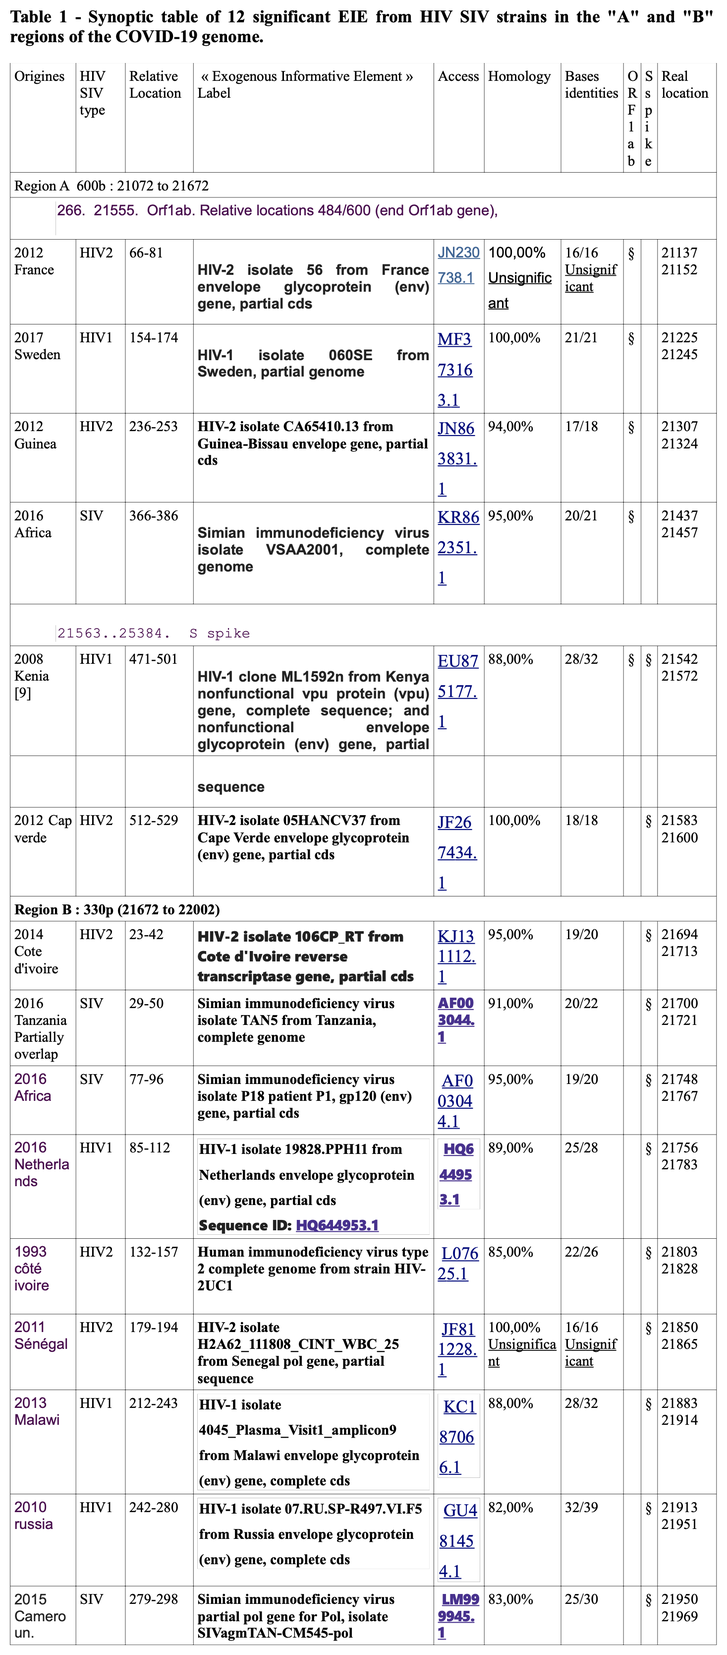
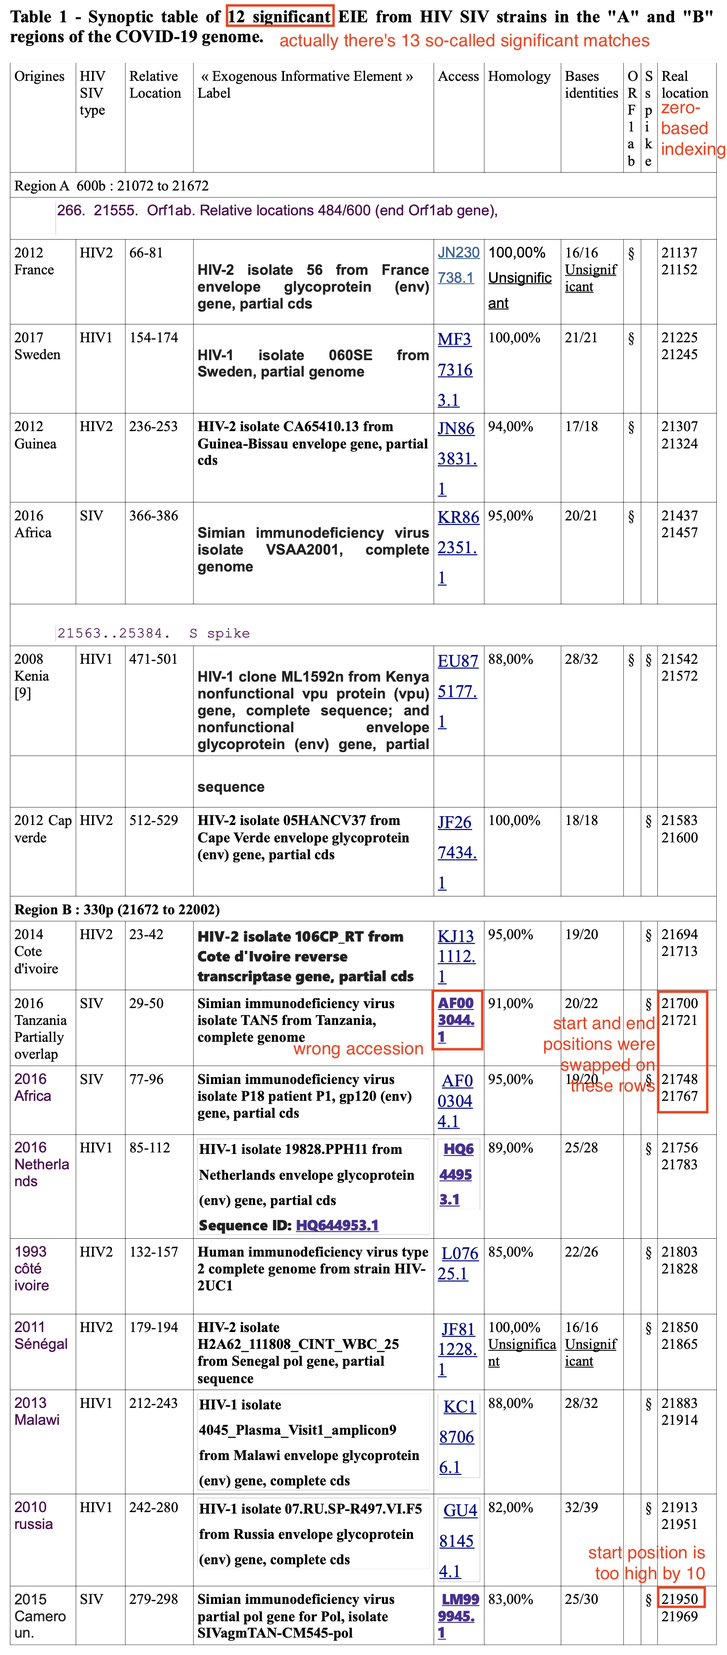
a

diff --git a/dowd.html b/dowd.html
@@ -4,7 +4,7 @@
 body{background:#292929;color:white;margin:6px 6px 6px max(6px, min(50vw - 270px, 100vw - 1100px))}
 body,td,th{font:14.5px/1.3 Arial,Helvetica,'Liberation Sans',sans-serif}
 p{max-width:540px}
-h1,h2,h2 a,h3 a,h2 a:visited,h3 a:visited{font-weight:normal;color:white}
+h1,h2,h3,h2 a,h3 a,h2 a:visited,h3 a:visited{font-weight:normal;color:white}
 h1{font-size:2.1em;margin-top:.9em}
 h2{font-size:1.7em}
 h3{font-size:1.3em}
@@ -18,7 +18,7 @@ table{border-collapse:collapse}
 td,th{border:1px solid #555;padding:2px 4px}
 th{background:#444;text-align:left;font-weight:bold}
 img{max-width:100%}
-blockquote{margin-left:0px;padding-left:40px;margin-right:0}
+blockquote{margin-left:0px;padding-left:40px;margin-right:0;overflow-x:hidden}
 blockquote p{max-width:480px}
 blockquote blockquote p{max-width:440px}
 blockquote blockquote blockquote p{max-width:400px}
@@ -82,7 +82,7 @@ blockquote blockquote blockquote,blockquote blockquote .quote,blockquote .quote 
 <img src="i/debunk-dowd-4.jpg">
 </div>
 <p>In the screenshot above if you calculate the mortality rate for 2022 by dividing the 2022 deaths by the 2021 population size, it's <code>176784/16206075*1e5</code> which is about 1091, so it matches the plot in Dowd's preprint.</p>
-<p>However next I realized why Dowd's team got higher CMR in 2021 than 2020, which is that CDC WONDER uses population estimates based on the 2010 census for 2020 but population estimates based on the 2020 census from 2021 onwards. And if you look at the mid-2020 resident population estimate for ages 75 to 84, it was about 4% lower in the 2020-based vintage 2023 release than in the 2010-based vintage 2020 release:</p>
+<p>Next I figured out why Dowd's team got higher CMR in 2021 than 2020, which is that CDC WONDER uses population estimates based on the 2010 census for 2020 but population estimates based on the 2020 census from 2021 onwards. And if you look at the mid-2020 resident population estimate for ages 75 to 84, it was about 4% lower in the 2020-based vintage 2023 release than in the 2010-based vintage 2020 release:</p>
 <pre># vintage 2020 release based on 2010 census (used for CDC WONDER&#39;s population sizes in 2020)
 old=fread(&quot;https://www2.census.gov/programs-surveys/popest/datasets/2010-2020/national/asrh/nc-est2020-agesex-res.csv&quot;)
 old[AGE%in%75:84&amp;SEX==0,sum(POPESTIMATE2020)]
@@ -181,8 +181,8 @@ ggsave(&quot;1.png&quot;,width=4,height=3,dpi=350*4)
 system(&quot;magick 1.png -resize 25% 1.png&quot;)</pre>
 </div>
 <p>In the plot above my magenta line in 2010-2020 is not perfectly equal to the population estimates used by CDC WONDER, but it's because I used vintage 2020 population estimates for 2010-2020, but CDC WONDER uses vintage 2015 estimates for 2015, vintage 2016 estimates for 2016, and so on.</p>
-<p>In the plot above the 2000-2010 intercensal population estimates are based on both 2000 and 2010 censuses, and they were adjusted to get rid of the jump between the 2000-based and 2010-based population estimates. CDC WONDER uses the 2000-2010 intercensal population estimates for the years 2000 to 2009, but the 2010-2020 intercensal population estimates are only scheduled to be published in 2025 after which they will probably replace the old 2010-based population estimates at CDC WONDER, so for now CDC WONDER suffers from the jump in population estimates between 2020 and 2021.</p>
-<p>However while we are waiting for the new intercensal population estimates to be published, I developed a fairly straightforward way to adjust the 2010-2020 estimates to get rid of the jump. For example in ages 75 to 84, the ratio between the 2020-based vintage 2023 estimate for 2020 and the 2010-based vintage 2020 estimate for 2020 is <code>15822264/16451547</code> which is about 0.9617. So therefore I'm multiplying the population estimate for 2011 by about <code>.9+.1*.9617</code>, the population estimate for 2012 by about <code>.8+.2*.9617</code>, and so on (or actually in the plot below I'm doing the multiplication separately for each single year of age and then adding together the results for each age, but it's nearly equivalent to doing the multiplication for ages 75-84 aggregated together):</p>
+<p>In the plot above the 2000-2010 intercensal population estimates are based on both 2000 and 2010 censuses, so the intercensal estimates were adjusted to get rid of the jump between the 2000-based and 2010-based population estimates. CDC WONDER uses the 2000-2010 intercensal population estimates for the years 2000 to 2009, so eventually CDC WONDER will probably replace the 2010-2020 population estimates with the 2010-2020 intercensal estimates once they get published, but they are only scheduled to be published in 2025 so for now CDC WONDER suffers from the sudden jump in population size between 2020 and 2021.</p>
+<p>However while we are waiting for the new intercensal population estimates to be published, I developed a fairly straightforward way to adjust the 2010-2020 estimates to get rid of the jump. For example in ages 75 to 84, the ratio between the 2020-based vintage 2023 estimate for 2020 and the 2010-based vintage 2020 estimate for 2020 is <code>15822264/16451547</code> which is about 0.9617. So therefore I'm multiplying the population estimate for 2011 by about <code>.9+.1*.9617</code>, the population estimate for 2012 by about <code>.8+.2*.9617</code>, and so on (or actually in the plot below I'm doing the multiplication separately for each single year of age and then adding together the results for each age, but it produces close to identical results to doing the multiplication for ages 75-84 aggregated together):</p>
 <div class="width7">
 <img src="i/dowd-popmult.png">
 </div>
@@ -358,10 +358,10 @@ sd=sd(d$excess[fitting]) # standard deviation of excess deaths during fitting pe
 d$sigma=d$excess/sd # z-score of excess deaths divided by standard deviation
 
 d$sigma[d$year==2022]
-# 6.024771 (sigma for 2022 deaths divided by 2022 population size)
+# 6.024771 (z-score for 2022 deaths divided by 2022 population size)
 
 (d$dead[d$year==2022]/d$pop[d$year==2021]*1e5-d$trend[d$year==2022])/sd
-# 22.16794 (sigma for 2022 deaths divided by 2021 population size)
+# 22.16794 (z-score for 2022 deaths divided by 2021 population size)
 
 print.data.frame(mutate_if(d,is.double,round,1),row.names=F)
 # year   dead      pop    cmr  trend excess sigma
@@ -426,12 +426,35 @@ print(round(d,1),r=F)
 <div class="width6">
 <img src="i/debunk-dowd-6.jpg">
 </div>
-<p>The next plot also shows how 2022 was the first year when the mid-year population estimates included a large number of people born after mid-1946 (I used the population sizes returned by CDC WONDER, where the population size of ages 75-84 fell between 2020 and 2021 due to the switch to the 2020-based population estimates, even though it's not too easy to see from this plot):</p>
+<p>The next plot shows how 2022 was the first year when the mid-year population of the age group 75-84 included a large number of people born after mid-1946:</p>
 <div class="width6">
 <img src="i/debunk-dowd-7.png">
 </div>
-<p>An annoying feature at CDC WONDER is that it doesn't return population sizes for monthly or weekly data but only yearly data. However the US Census Bureau has actually released monthly population estimates by single year of age, even though they seem to be interpolated from quarterly population estimates. [<a href="https://www2.census.gov/programs-surveys/popest/datasets/2020-2023/national/asrh/">https://www2.census.gov/programs-surveys/popest/datasets/2020-2023/national/asrh/</a>, <a href="https://www2.census.gov/programs-surveys/popest/datasets/2010-2020/national/asrh/">https://www2.census.gov/programs-surveys/popest/datasets/2010-2020/national/asrh/</a>] In the next plot in order to get rid of a jump in population estimates after the switch from the 2010-based to 2020-based population estimates, I used the same method as earlier to multiply the 2010-based population estimates with a linear slope so that they matched the 2020-based estimates in 2020. [<a href=ethical.html#Files_for_US_population_estimates_by_single_year_of_age_up_to_ages_100>ethical.html#Files_for_US_population_estimates_by_single_year_of_age_up_to_ages_100</a>]</p>
-<p>In the plot below I calculated the blue line so that I first did a linear regression for the CMR of each age, and then I multiplied the population size of the age by the projected trend in CMR to get the expected deaths for the age, and then I added together the expected deaths for all ages. The plot shows that there was a sharp turning point in the expected number of deaths around mid-2021, which was when the people born in mid-1946 started to turn 75:</p>
+<div class="spoiler">
+<button>
+Show code
+</button><pre>library(data.table)
+
+old=fread(&quot;https://www2.census.gov/programs-surveys/popest/datasets/2010-2020/national/asrh/nc-est2020-agesex-res.csv&quot;)
+new=fread(&quot;https://www2.census.gov/programs-surveys/popest/datasets/2020-2023/national/asrh/nc-est2023-agesex-res.csv&quot;)
+
+old=old[SEX==0&amp;AGE!=999,.(age=AGE,pop=unlist(.SD[,-(1:4)]),year=rep(2010:2020,each=.N))]
+new=new[SEX==0&amp;AGE!=999,.(age=AGE,pop=unlist(.SD[,-(1:3)]),year=rep(2020:2023,each=.N))]
+
+m=rbind(old[year&lt;2020],new)[age%in%65:84,xtabs(pop~year+age)]
+disp=m;disp[]=sprintf(&quot;%.1f&quot;,m/1e6)
+maxcolor=max(m)
+
+pheatmap::pheatmap(m,filename=&quot;1.png&quot;,display_numbers=disp,
+  cluster_rows=F,cluster_cols=F,legend=F,cellwidth=17,cellheight=17,fontsize=9,fontsize_number=8,
+  border_color=NA,
+  number_color=ifelse(m&gt;maxcolor*.45,&quot;white&quot;,&quot;black&quot;),
+  breaks=seq(0,maxcolor,,256),
+  colorRampPalette(sapply(seq(1,0,,256),\(i)rgb(i,i,i)))(256))
+
+system(&quot;pad=22;w=`identify -format %w 1.png`;magick \\( -size $[w-pad*2]x -font Arial-Bold -pointsize 42 caption:&#39;Mid-year US resident population estimate in millions by age and year&#39; -splice $[pad]x16 \\) \\( -size $[w-pad*2] -font Arial -pointsize 38 caption:&#39;Vintage 2020 estimates based on the 2010 census were used for 2010 to 2019, and vintage 2023 estimates based on the 2020 census were used for 2021 to 2023. Source: www2.census.gov/programs-surveys/popest/datasets/{2010-2020/national/asrh/nc- est2020,2020-2023/national/asrh/nc-est2023}-agesex-res.csv.&#39; -splice $[pad]x10 \\) 1.png -append 1.png&quot;)</pre>
+</div>
+<p>An annoying feature at CDC WONDER is that it doesn't return population sizes for monthly or weekly data but only yearly data. However the US Census Bureau has actually released monthly population estimates by single year of age, even though they seem to be interpolated from quarterly population estimates. [<a href="https://www2.census.gov/programs-surveys/popest/datasets/2020-2023/national/asrh/">https://www2.census.gov/programs-surveys/popest/datasets/2020-2023/national/asrh/</a>, <a href="https://www2.census.gov/programs-surveys/popest/datasets/2010-2020/national/asrh/">https://www2.census.gov/programs-surveys/popest/datasets/2010-2020/national/asrh/</a>] In the next plot in order to get rid of a jump in population estimates after the switch from the 2010-based to 2020-based population estimates, I used the same method as earlier to multiply the 2010-based population estimates with a linear slope so that they matched the 2020-based estimates in 2020. [<a href=ethical.html#Files_for_US_population_estimates_by_single_year_of_age_up_to_ages_100>ethical.html#Files_for_US_population_estimates_by_single_year_of_age_up_to_ages_100</a>] In the plot below I calculated the blue line so that I first did a linear regression for the CMR of each age, and then I multiplied the population size of the age by the projected trend in CMR to get the expected deaths for the age, and then I added together the expected deaths for all ages. The plot shows that there was a sharp turning point in the expected number of deaths around mid-2021, which was when the people born in mid-1946 started to turn 75:</p>
 <div class="width6">
 <img src="i/debunk-dowd-9.png">
 </div>

diff --git a/pradhan.html b/pradhan.html
@@ -4,7 +4,7 @@
 body{background:#292929;color:white;margin:6px 6px 6px max(6px, min(50vw - 270px, 100vw - 1100px))}
 body,td,th{font:14.5px/1.3 Arial,Helvetica,'Liberation Sans',sans-serif}
 p{max-width:540px}
-h1,h2,h2 a,h3 a,h2 a:visited,h3 a:visited{font-weight:normal;color:white}
+h1,h2,h3,h2 a,h3 a,h2 a:visited,h3 a:visited{font-weight:normal;color:white}
 h1{font-size:2.1em;margin-top:.9em}
 h2{font-size:1.7em}
 h3{font-size:1.3em}
@@ -18,7 +18,7 @@ table{border-collapse:collapse}
 td,th{border:1px solid #555;padding:2px 4px}
 th{background:#444;text-align:left;font-weight:bold}
 img{max-width:100%}
-blockquote{margin-left:0px;padding-left:40px;margin-right:0}
+blockquote{margin-left:0px;padding-left:40px;margin-right:0;overflow-x:hidden}
 blockquote p{max-width:480px}
 blockquote blockquote p{max-width:440px}
 blockquote blockquote blockquote p{max-width:400px}
@@ -543,21 +543,21 @@ Sbjct  73  TNGTKR  78
 <h2>
 <a href=#May_2020_preprint_by_Perez_and_Montagnier id=May_2020_preprint_by_Perez_and_Montagnier>May 2020 preprint by Perez and Montagnier</a>
 </h2>
-<p>In May 2020 Jean-Claude Perez and Luc Montagnier published a preprint at Researchgate titled <span class="quote">&quot;COVID-19, SARS and Bats Coronaviruses Genomes Unexpected Exogenous RNA Sequences&quot;</span>. [<a href="https://www.researchgate.net/publication/341756383_COVID-19_SARS_and_Bats_Coronaviruses_Genomes_Unexpected_Exogenous_RNA_Sequences">https://www.researchgate.net/publication/341756383_COVID-19_SARS_and_Bats_Coronaviruses_Genomes_Unexpected_Exogenous_RNA_Sequences</a>]</p>
-<p>They didn't use Wuhan-Hu-1 as their reference genome but another early sequence from Wuhan. [<a href="https://www.ncbi.nlm.nih.gov/nucleotide/LR757998">https://www.ncbi.nlm.nih.gov/nucleotide/LR757998</a>.1] It's missing the first 25 bases of the 5' UTR relative to Wuhan-Hu-1, so the genome coordinates given by Perez are off by 25 relative to Wuhan-Hu-1 coordinates.</p>
-<p>The authors identified two contiguous regions with a high number of matches to HIV or SIV sequences, which they called <span class="quote">&quot;region A&quot;</span> and <span class="quote">&quot;region B&quot;</span>. They indicated that region A was 600 bases long but it matched bases 21072 to 21672 of the reference, which would mean that it would be 601 bases long if both ends of the range would be inclusive, but the end of the range appears to be exclusive and the authors appear to have started genome numbering from zero and not one, so the region actually matches bases 21073 to 21672 in regular one-based numbering where both ends of the range are inclusive:</p>
+<p>In May 2020 Jean-Claude Perez and Luc Montagnier published a preprint at ResearchGate titled <span class="quote">&quot;COVID-19, SARS and Bats Coronaviruses Genomes Unexpected Exogenous RNA Sequences&quot;</span>. [<a href="https://www.researchgate.net/publication/341756383_COVID-19_SARS_and_Bats_Coronaviruses_Genomes_Unexpected_Exogenous_RNA_Sequences">https://www.researchgate.net/publication/341756383_COVID-19_SARS_and_Bats_Coronaviruses_Genomes_Unexpected_Exogenous_RNA_Sequences</a>]</p>
+<p>The authors didn't use Wuhan-Hu-1 as their reference genome but another early sequence from Wuhan. [<a href="https://www.ncbi.nlm.nih.gov/nucleotide/LR757998">https://www.ncbi.nlm.nih.gov/nucleotide/LR757998</a>.1] It's missing the first 25 bases of the 5' UTR relative to Wuhan-Hu-1, so the genome coordinates given by the authors are off by 25 relative to Wuhan-Hu-1 coordinates.</p>
+<p>The authors identified two contiguous regions with a high number of matches to HIV or SIV sequences, which they called <span class="quote">&quot;region A&quot;</span> and <span class="quote">&quot;region B&quot;</span>. The authors indicated that region A was 600 bases long but it matched bases 21072 to 21672 of the reference, which would mean that it would be 601 bases long if both ends of the range would be inclusive. But the end of the range appears to be exclusive and the authors appear to have started genome numbering from zero and not one, so the region actually matches bases 21073 to 21672 in regular one-based numbering where both ends of the range are inclusive:</p>
 <pre>$ emu()(curl -sd &quot;id=$(paste -sd,)&quot; &quot;https://eutils.ncbi.nlm.nih.gov/entrez/eutils/efetch.fcgi?db=${1:-nuccore}&amp;rettype=${2:-fasta}&amp;retmode=$3&quot;)
 $ emu&lt;&lt;&lt;LR757998&gt;perezref.fa
 $ seqkit locate -pAGGGTTTTTTCACTTACATTTGTGGGTTTATACAACAAAAGCTAGCTCTTGGAGGTTCCGTGGCTATAAAGATAACAGAACATTCTTGGAATGCTGATCTTTATAAGCTCATGGGACACTTCGCATGGTGGACAGCCTTTGTTACTAATGTGAATGCGTCATCATCTGAAGCATTTTTAATTGGATGTAATTATCTTGGCAAACCACGCGAACAAATAGATGGTTATGTCATGCATGCAAATTACATATTTTGGAGGAATACAAATCCAATTCAGTTGTCTTCCTATTCTTTATTTGACATGAGTAAATTTCCCCTTAAATTAAGGGGTACTGCTGTTATGTCTTTAAAAGAAGGTCAAATCAATGATATGATTTTATCTCTTCTTAGTAAAGGTAGACTTATAATTAGAGAAAACAACAGAGTTGTTATTTCTAGTGATGTTCTTGTTAACAACTAAACGAACAATGTTTGTTTTTCTTGTTTTATTGCCACTAGTCTCTAGTCAGTGTGTTAATCTTACAACCAGAACTCAATTACCCCCTGCATACACTAATTCTTTCACACGTGGTGTTTATTACCCTGACAAAGTTTTCAGATCC perezref.fa|cut -f5,6|column -t
 start  end
 21073  21672</pre>
-<p>Region A consists of the last 458 bases of ORF1ab, the 7-base intergenic region between ORF1ab and the spike protein, and the first 135 bases of the spike. Region B consists of bases 136 to 465 of the spike.</p>
-<p>The paper included this table of matches to regions A and B in various sequences of HIV-1, HIV-2, and SIV, where matches shorter than 18 bases were indicated as not significant:</p>
+<p>Region A consists of the last 458 bases of ORF1ab, the 7-base intergenic region between ORF1ab and the spike protein, and the first 135 bases of the spike protein. Region B consists of bases 136 to 465 of the spike protein.</p>
+<p>Table 1 of the paper showed matches to regions A and B in various sequences of HIV-1, HIV-2, and SIV, where matches shorter than 18 bases were indicated as not significant:</p>
 <div class="width6">
 <img src="i/pradhan-perez.png">
 </div>
-<p>The paper erroneously says that the table above contains 14 matches out of which 12 are significant, even though actually there's 15 matches out of which 13 are so-called significant matches. The starting and ending positions in the last column seem to use zero-based indexing, because they are smaller by one than they would be in regular one-based indexing. One error in the table above is that <span class="quote">&quot;Simian immunodeficiency virus isolate TAN5 from Tanzania&quot;</span> should have the accession number JN091691.1, but it was accidentally given the same accession number as the sequence on the next row. Another error is that the ranges in the last column were accidentally swapped for AF003044 and JN091691. And another error is that on the last row the length of the match is indicated to be 30 bases even though the given starting and ending positions would result in a length of only 20 bases, but it's because the starting position is too high by 10.</p>
-<p>When I downloaded all 15 sequences in the table and I did a BLAST search of them against SARS-CoV-2, there were no matches returned when I ran BLAST with the default settings:</p>
+<p>The authors erroneously wrote that the table above contains 14 matches out of which 12 are significant, even though actually the table contains 15 matches out of which 13 are indicated to be so-called significant matches. The starting and ending positions in the last column seem to use zero-based indexing, because they are smaller by one than they would be in regular one-based indexing. One error in the table is that the SIV isolate TAN5 from Tanzania should have the accession number JN091691.1, but it was accidentally given the same accession number as the sequence on the next row. And another error is that the ranges in the last column were accidentally swapped for AF003044 and JN091691. And another error is that on the last row the length of the match is indicated to be 30 bases even though the given starting and ending positions would result in a length of only 20 bases, but it's because the starting position is too high by 10.</p>
+<p>When I downloaded all 15 sequences in the table and I did a BLAST search for the sequences against SARS-CoV-2, there were no matches returned when I ran BLAST with the default settings:</p>
 <pre>$ cat perez # fixed errors mentioned above and converted to 1-based indexing
 JN230738.1 21138 21153
 MF373163.1 21226 21246
@@ -566,14 +566,14 @@ KR862351.1 21438 21458
 EU875177.1 21543 21573
 JF267434.1 21584 21601
 KJ131112.1 21695 21714
-AF003044.1 21749 21768
-JN091691.1 21701 21722
+AF003044.1 21749 21768 # the start and end positions on this row were accidentally swapped with the next row
+JN091691.1 21701 21722 # the start and end positions on this row were accidentally swapped with the previous row
 HQ644953.1 21757 21784
 L07625.1 21804 21829
 JF811228.1 21851 21866
 KC187066.1 21884 21915
 GU481454.1 21914 21952
-LM999945.1 21941 21970
+LM999945.1 21941 21970 # the starting position of this row was too high by 10
 $ curl &quot;https://eutils.ncbi.nlm.nih.gov/entrez/eutils/efetch.fcgi?db=nuccore&amp;rettype=fasta&amp;id=$(cut -d\  -f1 perez|paste -sd, -)&quot;&gt;perez.fa
 $ brew install blast
 [...]

diff --git a/statistic2.html b/statistic2.html
@@ -4,7 +4,7 @@
 body{background:#292929;color:white;margin:6px 6px 6px max(6px, min(50vw - 270px, 100vw - 1100px))}
 body,td,th{font:14.5px/1.3 Arial,Helvetica,'Liberation Sans',sans-serif}
 p{max-width:540px}
-h1,h2,h2 a,h3 a,h2 a:visited,h3 a:visited{font-weight:normal;color:white}
+h1,h2,h3,h2 a,h3 a,h2 a:visited,h3 a:visited{font-weight:normal;color:white}
 h1{font-size:2.1em;margin-top:.9em}
 h2{font-size:1.7em}
 h3{font-size:1.3em}
@@ -18,7 +18,7 @@ table{border-collapse:collapse}
 td,th{border:1px solid #555;padding:2px 4px}
 th{background:#444;text-align:left;font-weight:bold}
 img{max-width:100%}
-blockquote{margin-left:0px;padding-left:40px;margin-right:0}
+blockquote{margin-left:0px;padding-left:40px;margin-right:0;overflow-x:hidden}
 blockquote p{max-width:480px}
 blockquote blockquote p{max-width:440px}
 blockquote blockquote blockquote p{max-width:400px}
@@ -793,7 +793,89 @@ system(&quot;magick 1.png -resize 25% 1.png&quot;)</pre>
 <img src="i/statistic-king-13.jpg">
 </div>
 <p>The paper said: <span class="quote">&quot;Excess cardiopulmonary arrest deaths were estimated to have increased by 1,236% from 2020 to 2023, rising from 11 excess deaths (95% CI: -12, 34) in 2020 to 147 excess deaths (95% CI: 123, 170) in 2023.&quot;</span> I think it was misleading that McCullough's headline was not even based on actual data but on a projected number of deaths for 2023.</p>
-<p>But anyway there were about 11.8% excess deaths in 2023 (<code>1392/1245-1</code>) and about 1.0% excess deaths in 2020 (<code>1121/1110-1</code>). So I guess an increase of 1236% sounds more exciting than an increase of 10.8 percentage points.</p>
+<p>But anyway there were about 11.8% excess deaths in 2023 (<code>1392/1245-1</code>) and about 1.0% excess deaths in 2020 (<code>1121/1110-1</code>). So I guess an increase of 1236% sounds more exciting than an increase of 10.8 percentage points:</p>
+<div class="width6">
+<img src="i/statistic-king-18.png">
+</div>
+<div class="spoiler">
+<button>
+Show code
+</button><pre>library(data.table);library(ggplot2)
+
+d=data.table(year=2005:2023)
+d$dead=c(934,819,844,847,866,851,824,882,900,979,893,940,964,1009,1055,1116,1257,1300,1358)
+d$dead2=c(rep(NA,10),891,933,960,1012,1059,1121,1229,1310,1392)
+d$base=c(rep(NA,10),884,929,974,1019,1064,1110,1155,1200,1245)
+
+p=d[,.(x=year,y=c(dead,dead2,base),z=rep(c(&quot;Original PDFs&quot;,&quot;McCullough paper&quot;,&quot;McCullough baseline&quot;),each=.N))]
+p[,z:=factor(z,unique(z))]
+
+anno=p[x%in%c(2020,2023)&amp;z!=z[1]]
+minus=4
+seg=as.matrix(anno[,.(x=x-minus,xend=x,y,yend=y)])
+seg=rbind(seg,t(matrix(t(anno[order(x)][,x:=x-minus][,-3]),4))[,c(1,3,2,4)])
+
+lab=cbind(anno[1:2,1:2],base=anno[3:4][[2]])
+lab=lab[,.(x,y=(y+base)/2,label=paste0(&quot;(&quot;,y,&quot; - &quot;,base,&quot;) / &quot;,base,&quot; ≈ &quot;,sprintf(&quot;%.1f&quot;,(y/base-1)*100),&quot;% excess deaths&quot;))]
+
+note=&quot;(1392/1245-1)-(1121/1110-1): increase of about 10.8 percentage points
+(1392-1245)/(1121-1110)-1: increase of about 1236% (misleading headline)&quot;
+
+xstart=2005;xend=2023;ybreak=pretty(c(0,p$y),7);ystart=0;yend=max(ybreak)
+xbreak=seq(xstart-.5,xend+.5,.5);xlab=ifelse(xbreak%%1==0,xbreak,&quot;&quot;)
+
+color=c(&quot;black&quot;,&quot;#ff5555&quot;,&quot;#ff5555&quot;)
+
+cap=&quot;Sources: kingcounty.gov/en/dept/dph/health-safety/health-centers-programs-services/emergency-
+medical-services/reports-publications, Hulscher et al. 2024, \&quot;Excess Cardiopulmonary Arrest and
+Mortality after COVID-19 Vaccination in King County, Washington\&quot;.&quot;
+
+sub=str_wrap(&quot;The number of deaths in the paper by McCullough foundation is slightly different from the original PDFs because in the paper the number of dead patients was calculated by multiplying the number of treated patients by the rounded percentage of patients who didn&#39;t survive, and not by subtracting the number of patients who didn&#39;t survive from the number of treated patients. In the paper the number of deaths in 2023 was a linear projection of the number of deaths in 2021 and 2022, but the actual number of deaths in 2023 which was published in September 2024 was slightly lower than the projection. The McCullough paper also erroneously used 18% instead of 16% as the percentage of survived patients in 2021.&quot;,80)
+
+ggplot(p,aes(x,y))+
+geom_hline(yintercept=c(0,yend),linewidth=.3,lineend=&quot;square&quot;)+
+geom_vline(xintercept=c(xstart-.5,xend+.5),linewidth=.3,lineend=&quot;square&quot;)+
+geom_line(aes(linewidth=z,color=z,linetype=z))+
+geom_segment(data=as.data.frame(seg),aes(x=x,xend=xend,y=y,yend=yend),lineend=&quot;square&quot;,linewidth=.3,color=color[2])+
+geom_text(data=lab,aes(x=x-minus-.2,label=label),hjust=1,color=color[2],size=2.4)+
+annotate(geom=&quot;label&quot;,x=2023,y=500,label=note,hjust=1,color=color[2],label.r=unit(0,&quot;pt&quot;),label.padding=unit(4,&quot;pt&quot;),label.size=.3,size=2.4)+
+annotate(geom=&quot;label&quot;,x=2023,y=500,label=note,hjust=1,fill=&quot;transparent&quot;,label.r=unit(0,&quot;pt&quot;),label.padding=unit(4,&quot;pt&quot;),label.size=0,size=2.4)+
+geom_point(aes(color=z,shape=z,alpha=z,size=z),stroke=.4)+
+labs(x=NULL,y=NULL,title=&quot;Yearly cardiac arrest deaths in King County EMS data&quot;,subtitle=sub,caption=cap)+
+scale_x_continuous(limits=c(xstart-.5,xend+.5),breaks=xbreak,labels=xlab)+
+scale_y_continuous(limits=c(ystart,yend),breaks=ybreak)+
+coord_cartesian(clip=&quot;off&quot;,expand=F)+
+scale_color_manual(values=color)+
+scale_linetype_manual(values=c(&quot;solid&quot;,&quot;solid&quot;,&quot;42&quot;))+
+scale_linewidth_manual(values=c(.4,.4,.4))+
+scale_shape_manual(values=c(16,16,16))+
+scale_size_manual(values=c(.9,.9,1.4))+
+scale_alpha_manual(values=c(1,1,0))+
+theme(axis.text=element_text(size=7,color=&quot;black&quot;),
+  axis.text.x=element_text(angle=90,vjust=.5,hjust=1),
+  axis.ticks.length=unit(0,&quot;pt&quot;),
+  legend.background=element_blank(),
+  legend.box.spacing=unit(0,&quot;pt&quot;),
+  legend.direction=&quot;horizontal&quot;,
+  legend.justification=c(1,.5),
+  legend.key=element_blank(),
+  legend.key.height=unit(10,&quot;pt&quot;),
+  legend.key.width=unit(18,&quot;pt&quot;),
+  legend.margin=margin(1,,4),
+  legend.position=&quot;top&quot;,
+  legend.spacing.x=unit(1.5,&quot;pt&quot;),
+  legend.spacing.y=unit(0,&quot;pt&quot;),
+  legend.text=element_text(size=7),
+  legend.title=element_blank(),
+  panel.background=element_blank(),
+  plot.margin=margin(4,4,4,4),
+  plot.subtitle=element_text(size=6.5,margin=margin(,,3)),
+  plot.caption=element_text(size=5.7,margin=margin(4),hjust=0),
+  plot.title=element_text(size=7.5,face=&quot;bold&quot;,margin=margin(1,,4)))
+ggsave(&quot;1.png&quot;,width=3.8,height=3.8,dpi=400*4)
+system(&quot;magick 1.png -resize 25% 1.png&quot;)
+</pre>
+</div>
 <p>Peter Sweden also employed the trick in a Substack post where he said that there had been a 1101% increase in excess deaths in children. [<a href="https://skeptics.stackexchange.com/questions/53765/has-there-been-a-1101-increase-in-excess-deaths-among-children-aged-0-14-across">https://skeptics.stackexchange.com/questions/53765/has-there-been-a-1101-increase-in-excess-deaths-among-children-aged-0-14-across</a>] And USMortality used the same trick in one of his Substack posts, where he got about 11.2% excess deaths in 2022 and about 4.5% excess deaths in 2020, so he said there had been a 149% increase in excess deaths (because I guess an increase of 6.7 percentage points wouldn't have sounded as dramatic): [<a href="https://x.com/USMortality/status/1721410802857730423">https://x.com/USMortality/status/1721410802857730423</a>]</p>
 <div class="width5">
 <img src="i/statistic-king-14.jpg">

diff --git a/r.html b/r.html
@@ -1459,6 +1459,16 @@ pre{width:fit-content;margin:6px auto;color:white;white-space:pre-wrap;word-wrap
 <span class=output>[1] 0.2290011 0.3104726</span>
 <span class=output>
 <span class=title># generate tick breaks that cover the specified values</span></span>
-<span class=prompt>&gt;</span> <span class=code>pretty(range(c(12353,28652,38568)))</span>
-<span class=output>[1] 10000 15000 20000 25000 30000 35000 40000</span>
+<span class=prompt>&gt;</span> <span class=code>v=c(15319,28652,38568)</span>
+<span class=prompt>&gt;</span> <span class=code>pretty(v)</span><span class=comment> # this always uses steps of 1, 2, or 5 multiplied by an integer exponent of 10 (and not 2.5 or 4 like ggplot)</span>
+<span class=output>[1] 15000 20000 25000 30000 35000 40000</span>
+<span class=prompt>&gt;</span> <span class=code>scales::breaks_extended(n=5,Q=c(1,2,5))(v)</span>
+<span class=output>[1] 15000 20000 25000 30000 35000 40000</span>
+<span class=output>
+<span class=title># filter vector in pipeline</span></span>
+<span class=prompt>&gt;</span> <span class=code>v=1:5</span>
+<span class=prompt>&gt;</span> <span class=code>v%&gt;%.[.&lt;3]</span><span class=comment> # dplyr</span>
+<span class=output>[1] 1 2</span>
+<span class=prompt>&gt;</span> <span class=code>v|&gt;Filter(f=\(x)x&lt;3)</span>
+<span class=output>[1] 1 2</span>
 </pre>

diff --git a/index.html b/index.html
@@ -60,7 +60,7 @@ blockquote blockquote blockquote,blockquote blockquote .quote,blockquote .quote 
 <title>Index</title>
 <h1>Index - sars2.net</h1>
 <h3>
-COVID statistics
+Statistics
 </h3>
 <div>
 2024-11-17 - <a href=dowd.html>Preprints about cancer mortality by Ed Dowd's group Phinance Technologies</a><br> 2024-11-15 - <a href=statistic2.html>Comments about COVID statistics (part 2)</a><br> 2024-09-29 - <a href=connecticut.html>Record-level Medicare data from Connecticut published by Steve Kirsch</a><br> 2024-08-25 - <a href=uk.html>UK mortality and COVID statistics</a><br> 2024-08-08 - <a href=czech4.html>Czech record-level mortality data by vaccination status (part 4)</a><br> 2024-07-22 - <a href=czech3.html>Czech record-level mortality data by vaccination status (part 3)</a><br> 2024-07-22 - <a href=czech2.html>Czech record-level mortality data by vaccination status (part 2)</a><br> 2024-07-17 - <a href=czech.html>Czech record-level mortality data by vaccination status (part 1)</a><br> 2024-04-03 - <a href=ethical.html>Comments to Ethical Skeptic</a><br> 2024-01-29 - <a href=statistic.html>Comments about COVID statistics (part 1)</a><br> 2023-12-02 - <a href=moar.html>New Zealand vaccination data released by database administrator Barry Young</a><br> 2023-09-13 - <a href=stat.html>R code for COVID statistics</a>

diff --git a/ethical.html b/ethical.html
@@ -4,7 +4,7 @@
 body{background:#292929;color:white;margin:6px 6px 6px max(6px, min(50vw - 270px, 100vw - 1100px))}
 body,td,th{font:14.5px/1.3 Arial,Helvetica,'Liberation Sans',sans-serif}
 p{max-width:540px}
-h1,h2,h2 a,h3 a,h2 a:visited,h3 a:visited{font-weight:normal;color:white}
+h1,h2,h3,h2 a,h3 a,h2 a:visited,h3 a:visited{font-weight:normal;color:white}
 h1{font-size:2.1em;margin-top:.9em}
 h2{font-size:1.7em}
 h3{font-size:1.3em}
@@ -18,7 +18,7 @@ table{border-collapse:collapse}
 td,th{border:1px solid #555;padding:2px 4px}
 th{background:#444;text-align:left;font-weight:bold}
 img{max-width:100%}
-blockquote{margin-left:0px;padding-left:40px;margin-right:0}
+blockquote{margin-left:0px;padding-left:40px;margin-right:0;overflow-x:hidden}
 blockquote p{max-width:480px}
 blockquote blockquote p{max-width:440px}
 blockquote blockquote blockquote p{max-width:400px}
